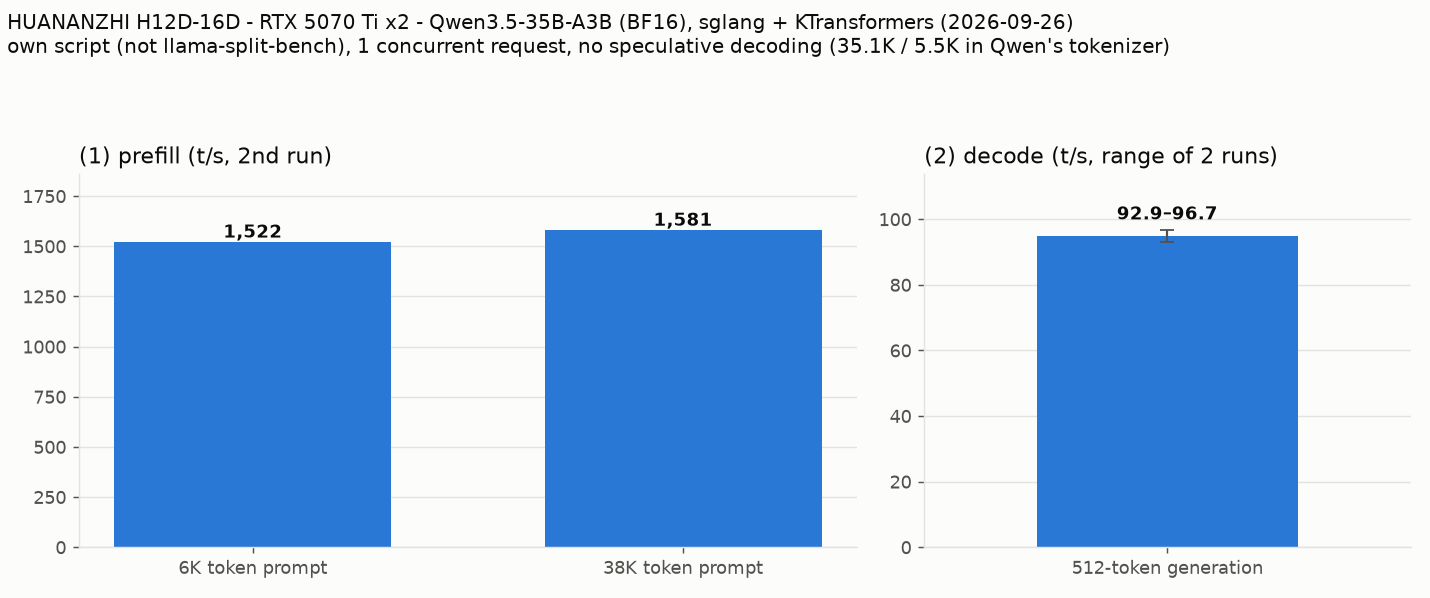
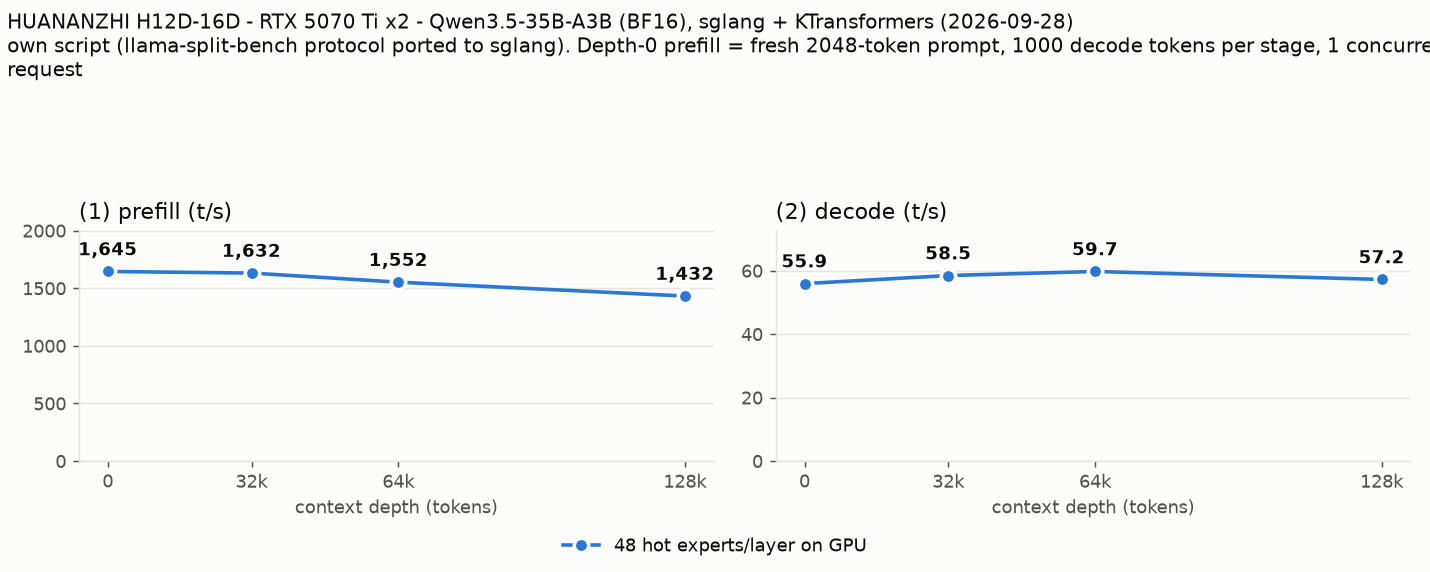
report: add the depth ladder (0/32K/64K/128K) as the main result
Maintainer request on #16: the llama-split-bench depth ladder, measured with the same
protocol ported to sglang (tools/sglang-ladder.py). The 09-26 real-prompt results stay
as a reference block.

diff --git a/report/2026-09-26_093349_running_qwen3.5_35b_a3b_in_bf16_on_2x_epyc_7452_and_2x_rtx_5070_ti_with_cpu_gpu_hybrid.md b/report/2026-09-26_093349_running_qwen3.5_35b_a3b_in_bf16_on_2x_epyc_7452_and_2x_rtx_5070_ti_with_cpu_gpu_hybrid.md
@@ -35,17 +35,41 @@ llama.cpp ではなく sglang＋KTransformers で動かしているため、llam
 
 | 項目 | 内容 |
 |------|------|
-| ツール | 自作スクリプト（sglang の OpenAI 互換 API にリクエストを送り、経過時間と usage から t/s を計算）。llama-split-bench は llama.cpp 専用のため使っていません |
+| ツール | 自作スクリプト [`tools/sglang-ladder.py`](https://github.com/05yuki/KTransformers/blob/main/tools/sglang-ladder.py)（llama-split-bench 7af72d4 の `measure_ladder.py` / `measure_pp0.py` と同じ手順を、sglang の `/generate` に移植したもの）。llama-split-bench は llama.cpp 専用のため使っていません |
 | モデル | [Qwen/Qwen3.5-35B-A3B](https://huggingface.co/Qwen/Qwen3.5-35B-A3B)（公式の重み）。BF16。67 GB。40 層、ルーティングされるエキスパート 256 個中 8 個がアクティブ |
 | 測定モード | CPU/GPU 分担（TP=2）。GPU に置くもの: エキスパート以外のすべてと、各層で使用頻度の高いエキスパート 48 個。prefill: エキスパートを層ごとに BF16 のまま GPU へ転送して計算 |
-| ctx / stages | 262K / 深度ラダーなし（約 6K・約 38K トークンのプロンプトの prefill と、短いプロンプトからの 512 トークン生成） |
+| ctx / stages | 262K / 0,32000,64000,128000 |
 | KV キャッシュ | BF16（既定） |
 | 投機的デコード | なし |
-| その他 | prefill は実際に使っている日本語の執筆指示（約 38K トークン）とその先頭 11,000 文字（約 6K トークン）を max_tokens 1 で送信し、2 回目の値（1 回目は起動直後のウォームアップを含む）。プロンプトの先頭に毎回異なる文字列を付けてプレフィックスキャッシュを無効化。decode は `ignore_eos`・思考なしで 2 回。temperature 1.0 / top_p 0.95、同時リクエスト 1。測定日 2026-09-26 |
+| その他 | ラダーは llama-split-bench と同じ英語の合成テキストを使い、各段で前の段の文脈の続きを送ります（前の段までの KV はプレフィックスキャッシュで再利用し、増えた分だけを prefill）。各段の直後に greedy・`ignore_eos` で 1000 トークン生成。depth 0 の prefill は新規プロンプト（512 / 2048 / 8192 トークン、先頭に毎回異なる文字列を付けてキャッシュを無効化）で、表と図の depth 0 は 2048 トークンの値です。同時リクエスト 1、測定日 2026-09-28〜29。参考の実プロンプトの計測: prefill は実際に使っている日本語の執筆指示（約 38K トークン）とその先頭 11,000 文字（約 6K トークン）を max_tokens 1 で送信し、2 回目の値（1 回目は起動直後のウォームアップを含む）。プロンプトの先頭に毎回異なる文字列を付けてプレフィックスキャッシュを無効化。decode は `ignore_eos`・思考なしで 2 回。temperature 1.0 / top_p 0.95、同時リクエスト 1。測定日 2026-09-26 |
 
 ### 結果
 
 ![結果](attachment/2026-09-26_093349_running_qwen3.5_35b_a3b_in_bf16_on_2x_epyc_7452_and_2x_rtx_5070_ti_with_cpu_gpu_hybrid/split-bench-ja.png)
+
+depth ごとの prefill / decode（t/s）。depth 0 の prefill は新規プロンプト（2048 トークン）の値です。decode はラダーの合成テキストでの実測値です。
+
+| depth | 実際の深さ（トークン） | prefill | decode |
+|------:|------:|------:|------:|
+| 0 | 0 | 1,645 | 55.9 |
+| 32k | 32,093 | 1,632 | 58.5 |
+| 64k | 64,864 | 1,552 | 59.7 |
+| 128k | 128,843 | 1,432 | 57.2 |
+
+depth 0 の新規プロンプト prefill（t/s）:
+
+| プロンプト長（トークン） | prefill |
+|------:|------:|
+| 521 | 458 |
+| 1,985 | 1,645 |
+| 8,082 | 1,675 |
+
+- 時間は sglang のサーバ側の記録（prefill の開始・終了時刻、decode のスループット）から計算しています
+- ラダーの計測時だけプレフィックスキャッシュを有効にしています（普段の設定は無効）。このモデルは Mamba 系の層の状態を chunk（2048 トークン）の境目でしか保存しないため、前の段の文脈の再利用は 2048 トークン単位で切り捨てられます
+
+ラダーの decode（英語の合成テキスト、greedy）は、下の実プロンプト（日本語、temperature 1.0）の値より低めです。GPU に置いた高頻度エキスパートは日本語の執筆でのルーティングから選んでいるため、合成テキストでは GPU 側で計算される割合が下がることが主な理由だと考えていますが、確認はしていません。
+
+#### 参考: 実際の執筆指示での計測（2026-09-26）
 
 プロンプト長ごとの prefill（t/s）。括弧内は所要時間です。
 
@@ -64,6 +88,7 @@ decode（t/s、2 回の範囲）:
 
 ### 所感
 
+- 深度ラダーでは、最も深い段（129k）まで decode は 55.9〜59.7 t/s、prefill は 1,432〜1,632 t/s で、深さによる低下はほとんどありませんでした。
 - アクティブパラメータが 3B と小さいので、67 GB を BF16 のまま置いても decode は 90 t/s 台に届きます。量子化による劣化を避けたいときの選択肢になります。
 - decode の伸びは all-reduce と受け渡しのオーバーヘッドを削った分が大きく、小さいモデルほど P2P なし 2 枚での通信の重さが目立ちます。
 
@@ -83,4 +108,6 @@ decode（t/s、2 回の範囲）:
 ## 添付
 
 - [split-bench-en.png](attachment/2026-09-26_093349_running_qwen3.5_35b_a3b_in_bf16_on_2x_epyc_7452_and_2x_rtx_5070_ti_with_cpu_gpu_hybrid/split-bench-en.png)
-- [results.json](attachment/2026-09-26_093349_running_qwen3.5_35b_a3b_in_bf16_on_2x_epyc_7452_and_2x_rtx_5070_ti_with_cpu_gpu_hybrid/results.json)
+- [results-ladder.json](attachment/2026-09-26_093349_running_qwen3.5_35b_a3b_in_bf16_on_2x_epyc_7452_and_2x_rtx_5070_ti_with_cpu_gpu_hybrid/results-ladder.json) / [results-ladder-pp0.json](attachment/2026-09-26_093349_running_qwen3.5_35b_a3b_in_bf16_on_2x_epyc_7452_and_2x_rtx_5070_ti_with_cpu_gpu_hybrid/results-ladder-pp0.json)
+- [run-info.json](attachment/2026-09-26_093349_running_qwen3.5_35b_a3b_in_bf16_on_2x_epyc_7452_and_2x_rtx_5070_ti_with_cpu_gpu_hybrid/run-info.json)
+- [results.json](attachment/2026-09-26_093349_running_qwen3.5_35b_a3b_in_bf16_on_2x_epyc_7452_and_2x_rtx_5070_ti_with_cpu_gpu_hybrid/results.json)（参考の実プロンプトの計測）
